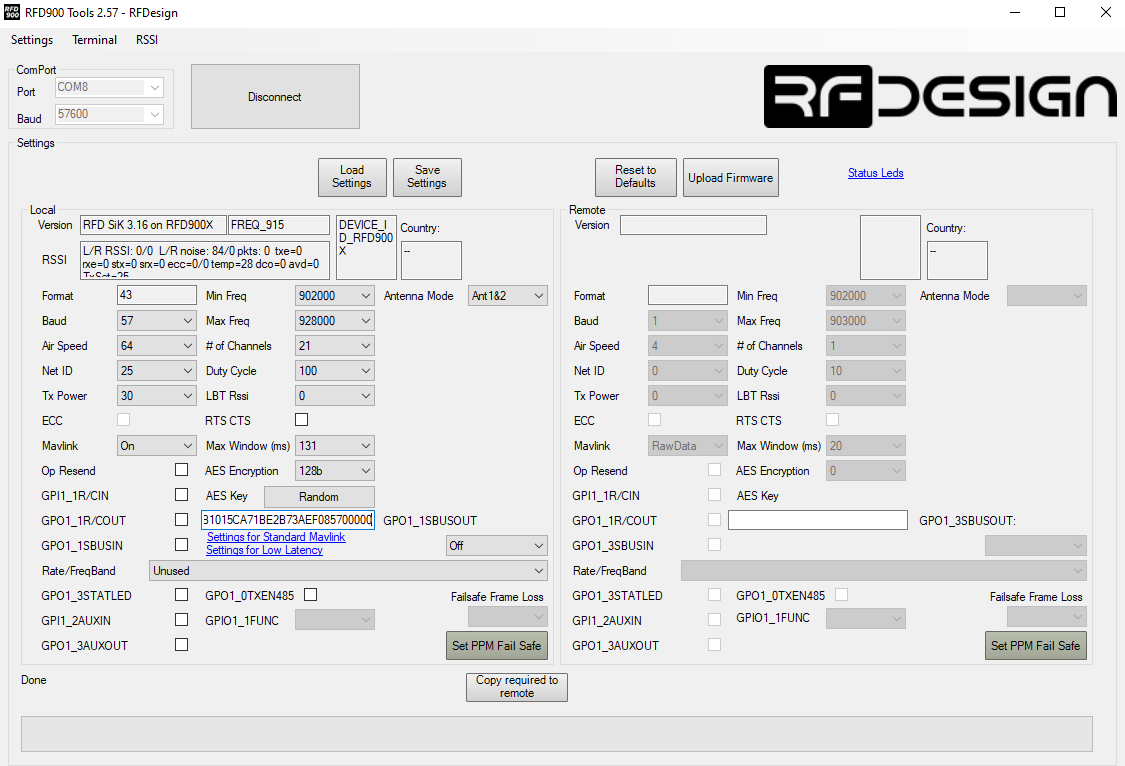
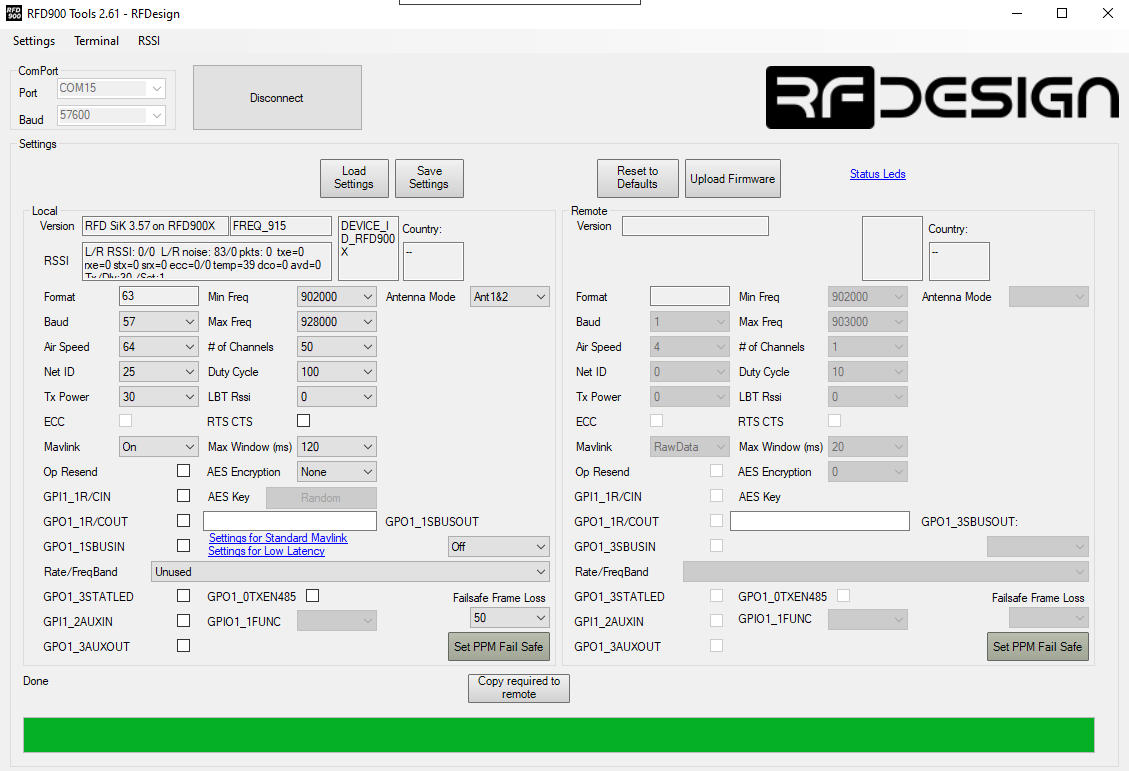
readme

diff --git a/README.md b/README.md
@@ -11,19 +11,45 @@ http://rfdesign.com.au/rfd900x-ism-modem/
 
 ![conn](setup/screen.png?raw=true "View RFD900X")
 
+Where to buy [link](https://store.rfdesign.com.au/rfd-900x-modem/)
+
 # RFD900X setup
+
+To setup RFD900X Firstly you should:
+- Download and install [RFD Tool](http://files.rfdesign.com.au/tools/). 
+- Download latest firmware [here](https://github.com/RFDesign/rfdesign.github.io/tree/master/Files/firmware). For 17.11.2022 the latest version is [RFDSiK V3.57 rfd900x.bin](https://github.com/RFDesign/rfdesign.github.io/blob/master/Files/firmware/RFDSiK%20V3.57%20rfd900x.bin) and [RFDSiK V3.57 rfd900x2.gbl](https://github.com/RFDesign/rfdesign.github.io/blob/master/Files/firmware/RFDSiK%20V3.57%20rfd900x2.gbl) 
+- Open RFD Tool, Click button 'Upload Firmware', select downloaded .bin or .gbl
+- Reconnect
+- Set all parameters
+
+
+All parameters should be set relative to next lines:
+
+- Version should be: RFD SiK 3.57 on RFD900X
+- Format: 63
+- Boud: 57
+- Air Speed: 64
+- Net ID: 25
+- Tx Power: 30
+- Mavlink: ON
+
+- Min Freq: 902000
+- Max Freq: 928000
+- N of Channels: 50
+- Duty Cycle: 100
+- LBT Rssi: 0
+- Max Window: 120
+- AES Encryption: 128b
+- AES KEY: 603DEB1015CA71BE2B73AEF0857D7781
+
+- In base station case: GPO1_1SBUSIN Checked 
+- On board case: GPO1_1SBUSOUT: SBUS1_NOFAIL
+
+As the final result parameters should looks like this
 
 ![setup](setup/setup.png?raw=true "setup RFD900X")
 
-default boudrate 57600
 
-AES KEY: 603DEB1015CA71BE2B73AEF085700000
+- Datasheet on [RFD900X](http://files.rfdesign.com.au/Files/documents/RFD900x%20DataSheet%20V1.1.pdf)
 
-## You can just update params by AT mode:
-```
-+++
-ATI5
-S8:MIN_FREQ=902000
-AT&E?
-603DEB1015CA71BE2B73AEF085700000
-```
+- User manual presented [here](http://files.rfdesign.com.au/Files/documents/RFD900x%20Peer-to-peer%20V3.X%20User%20Manual%20V1.2.pdf)
